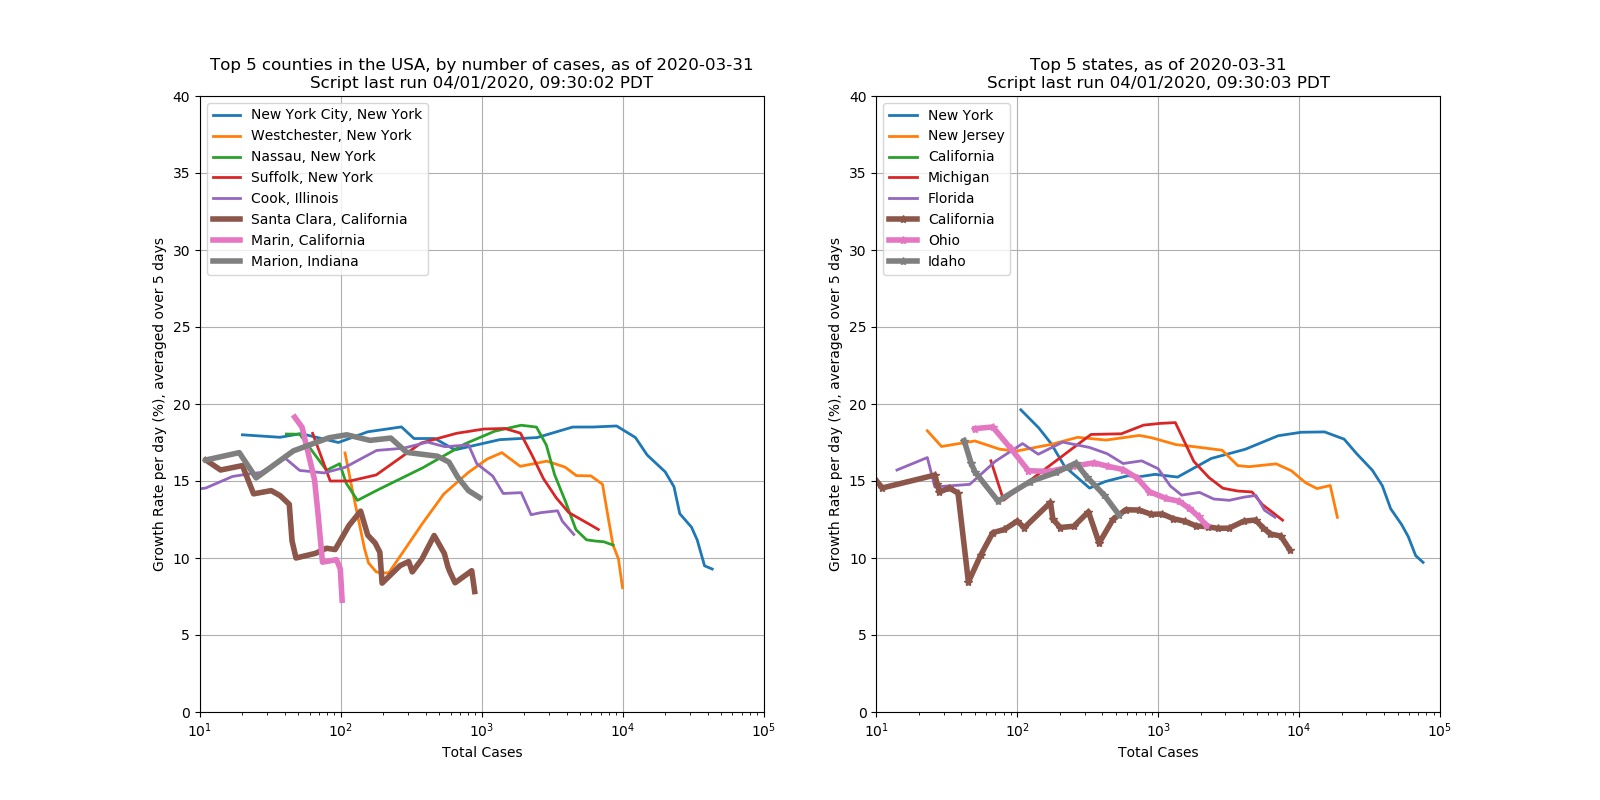
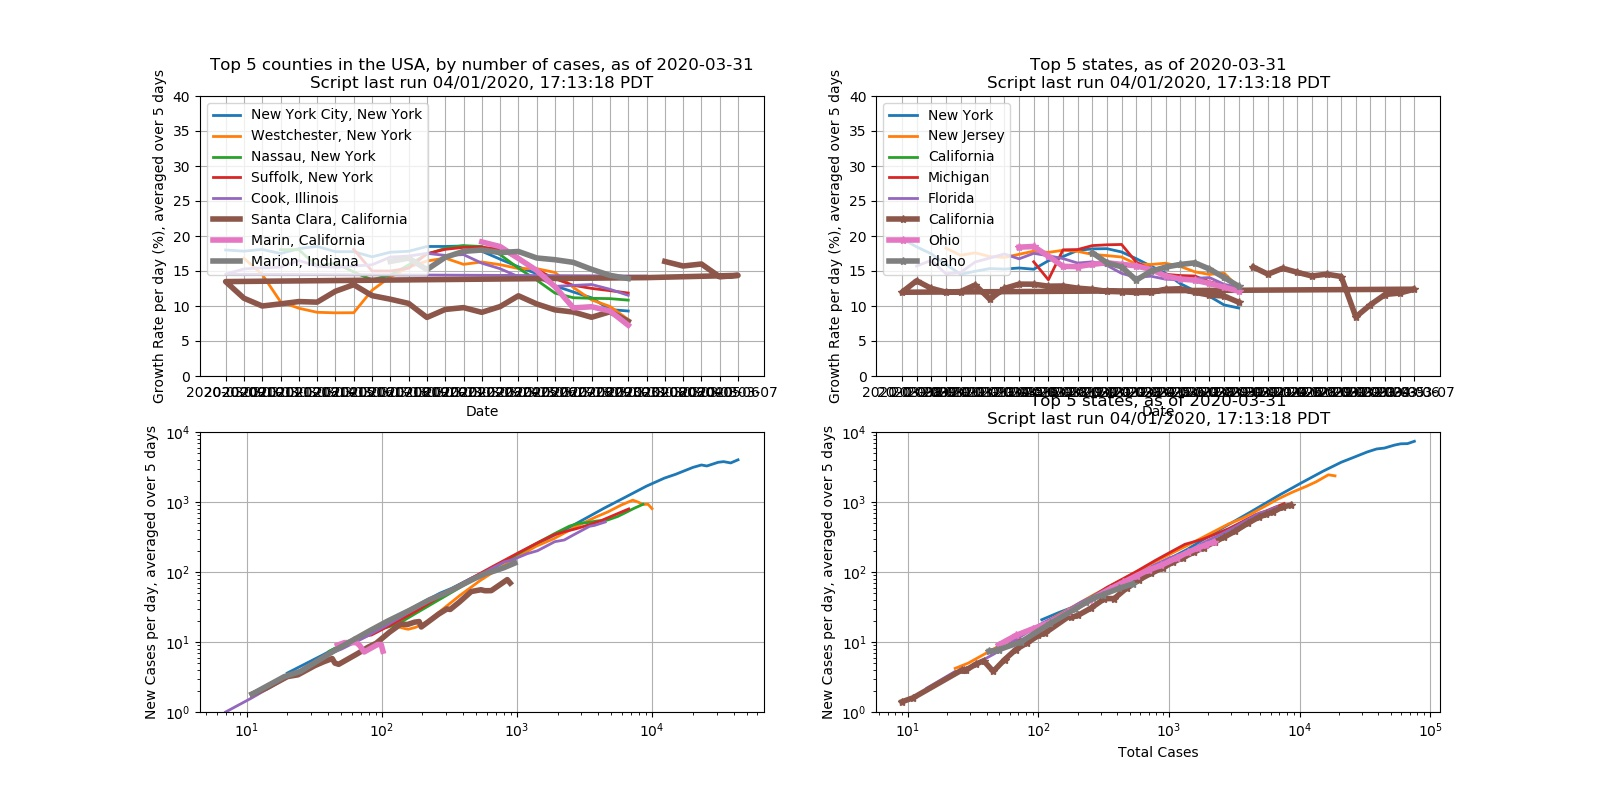
Wed Apr  1 17:30:02 PDT 2020

diff --git a/covid_19.py b/covid_19.py
@@ -19,7 +19,6 @@ def get_args():
     p = argparse.ArgumentParser()
     p.add_argument("-f", "--force", action="store_true", help="Force update plot")
     p.add_argument("-s", "--states", help="States to plot, inaddition to the top n", default=["California", "Ohio", "Idaho"], nargs='+')
-    p.add_argument("-p", "--percent", help="plot by percent growth rate instead of total numbers", action="store_true")
     p.add_argument("-c", "--counties", nargs='+', help="Additional Counties to plot",
                    default=["Santa Clara,California",
                             "Marin,California",
@@ -66,7 +65,7 @@ def plot_state(states, state, axis, num_days, min_cases=10, lineweight=1, offset
     cases = states[state]["cases"]
     cases, new_cases, dates = compute_new_cases(cases, dates, num_days)
     if percent:
-        axis.semilogx(cases, new_cases/cases*100, style, label=state, linewidth=lineweight)
+        axis.plot(dates, new_cases/cases*100, style, label=state, linewidth=lineweight)
     else:
         axis.loglog(cases, new_cases*offset, style, label=state, linewidth=lineweight)
 
@@ -77,7 +76,7 @@ def plot_county(cases_by_county, county_state, axis, num_days, min_cases=10, lin
     cases, new_cases, dates = compute_new_cases(cases, dates, num_days)
     county, state = county_state
     if percent:
-        axis.semilogx(cases, new_cases/cases*100, style, label=f"{county}, {state}", linewidth=lineweight)
+        axis.plot(dates, new_cases/cases*100, style, label=f"{county}, {state}", linewidth=lineweight)
     else:
         axis.loglog(cases, new_cases, style, label=f"{county}, {state}", linewidth=lineweight)
 
@@ -157,7 +156,7 @@ if __name__=='__main__':
 
     num_counties_to_plot=args.nc
     num_states_to_plot=args.ns
-    fig, (ax0, ax1) = plt.subplots(nrows=1, ncols=2,figsize=[16, 8])
+    fig, ((county_0, state_0),(county_1, state_1)) = plt.subplots(nrows=2, ncols=2,figsize=[16, 8])
 
     df_county = pd.read_csv("covid-19-data/us-counties.csv")
     df_state = pd.read_csv("covid-19-data/us-states.csv")
@@ -165,15 +164,13 @@ if __name__=='__main__':
     cases_by_county = df_to_dict_county(df_county)
     sorted_counties = counties_by_num_cases(cases_by_county)
     for county_state in sorted_counties[:num_counties_to_plot]:
-        plot_county(cases_by_county, county_state, num_days = args.days, min_cases=300, axis=ax0, lineweight=2, style="-", percent=args.percent)
+        plot_county(cases_by_county, county_state, num_days = args.days, min_cases=300, axis=county_0, lineweight=2, style="-", percent=True)
+        plot_county(cases_by_county, county_state, num_days = args.days, min_cases=300, axis=county_1, lineweight=2, style="-", percent=False)
     for county, state in parse_counties(args.counties):
         county_state = (county, state)
-        plot_county(cases_by_county, county_state, num_days = args.days, min_cases=300, axis=ax0, lineweight=4, style="-", percent=args.percent)
+        plot_county(cases_by_county, county_state, num_days = args.days, min_cases=300, axis=county_0, lineweight=4, style="-", percent=True)
+        plot_county(cases_by_county, county_state, num_days = args.days, min_cases=300, axis=county_1, lineweight=4, style="-", percent=False)
 
-    ax0.set_xlabel("Total Cases")
-    ax0.set_title(f"Top {num_counties_to_plot} counties in the USA, by number of cases, as of {latest_date(df_county)}\nScript last run {get_time()}")
-    ax0.grid()
-    ax0.legend(loc="upper left")
 
     cases_by_state = df_to_dict_state(df_state)
     states = states_by_num_cases(cases_by_state)
@@ -182,28 +179,36 @@ if __name__=='__main__':
     base = 1
     exponent = 10
     for state in states[:num_states_to_plot]:
-        plot_state(cases_by_state, state, ax1, lineweight=2, num_days=args.days, offset = base**exponent, style="-", percent=args.percent)
+        plot_state(cases_by_state, state, state_0, lineweight=2, num_days=args.days, offset = base**exponent, style="-", percent=True)
+        plot_state(cases_by_state, state, state_1, lineweight=2, num_days=args.days, offset = base**exponent, style="-", percent=False)
         exponent += 1
     for state in my_states:
-        plot_state(cases_by_state, state, ax1, lineweight=4, num_days=args.days, offset=base**exponent, style="-*", percent=args.percent)
+        plot_state(cases_by_state, state, state_0, lineweight=4, num_days=args.days, offset=base**exponent, style="-*", percent=True)
+        plot_state(cases_by_state, state, state_1, lineweight=4, num_days=args.days, offset=base**exponent, style="-*", percent=False)
         exponent += 1
 
-    ax1.set_xlabel("Total Cases")
-    ax1.set_title(f"Top {num_states_to_plot} states, as of {latest_date(df_state)}\nScript last run {get_time()}")
-    ax1.grid()
-    ax1.legend(loc="upper left")
+    all_axes = [county_0, county_1, state_0, state_1]
+    [ax.grid(True) for ax in all_axes]
 
-    ax0.set_xlim(10**1, 10**5)
-    ax1.set_xlim(10**1, 10**5)
-    if args.percent:
-        ax0.set_ylabel(f"Growth Rate per day (%), averaged over {args.days} days")
-        ax1.set_ylabel(f"Growth Rate per day (%), averaged over {args.days} days")
-        ax0.set_ylim(0, 40)
-        ax1.set_ylim(0, 40)
-    else:
-        ax0.set_ylabel(f"New Cases per day, averaged over {args.days} days")
-        ax1.set_ylabel(f"New Cases per day, averaged over {args.days} days")
-        ax0.set_ylim(10**0, 10**4)
-        ax1.set_ylim(10**0, 10**4)
+    county_0.set_xlabel("Date")
+    county_0.set_title(f"Top {num_counties_to_plot} counties in the USA, by number of cases, as of {latest_date(df_county)}\nScript last run {get_time()}")
+    county_0.legend(loc="upper left")
+
+    state_0.set_xlabel("Date")
+    state_0.set_title(f"Top {num_states_to_plot} states, as of {latest_date(df_state)}\nScript last run {get_time()}")
+    state_0.legend(loc="upper left")
+
+    state_1.set_title(f"Top {num_states_to_plot} states, as of {latest_date(df_state)}\nScript last run {get_time()}")
+    state_1.set_xlabel("Total Cases")
+
+    county_0.set_ylabel(f"Growth Rate per day (%), averaged over {args.days} days")
+    state_0.set_ylabel(f"Growth Rate per day (%), averaged over {args.days} days")
+    county_0.set_ylim(0, 40)
+    state_0.set_ylim(0, 40)
+
+    county_1.set_ylabel(f"New Cases per day, averaged over {args.days} days")
+    state_1.set_ylabel(f"New Cases per day, averaged over {args.days} days")
+    county_1.set_ylim(10**0, 10**4)
+    state_1.set_ylim(10**0, 10**4)
     fig.savefig("covid_plot.jpg")
     plt.show()
